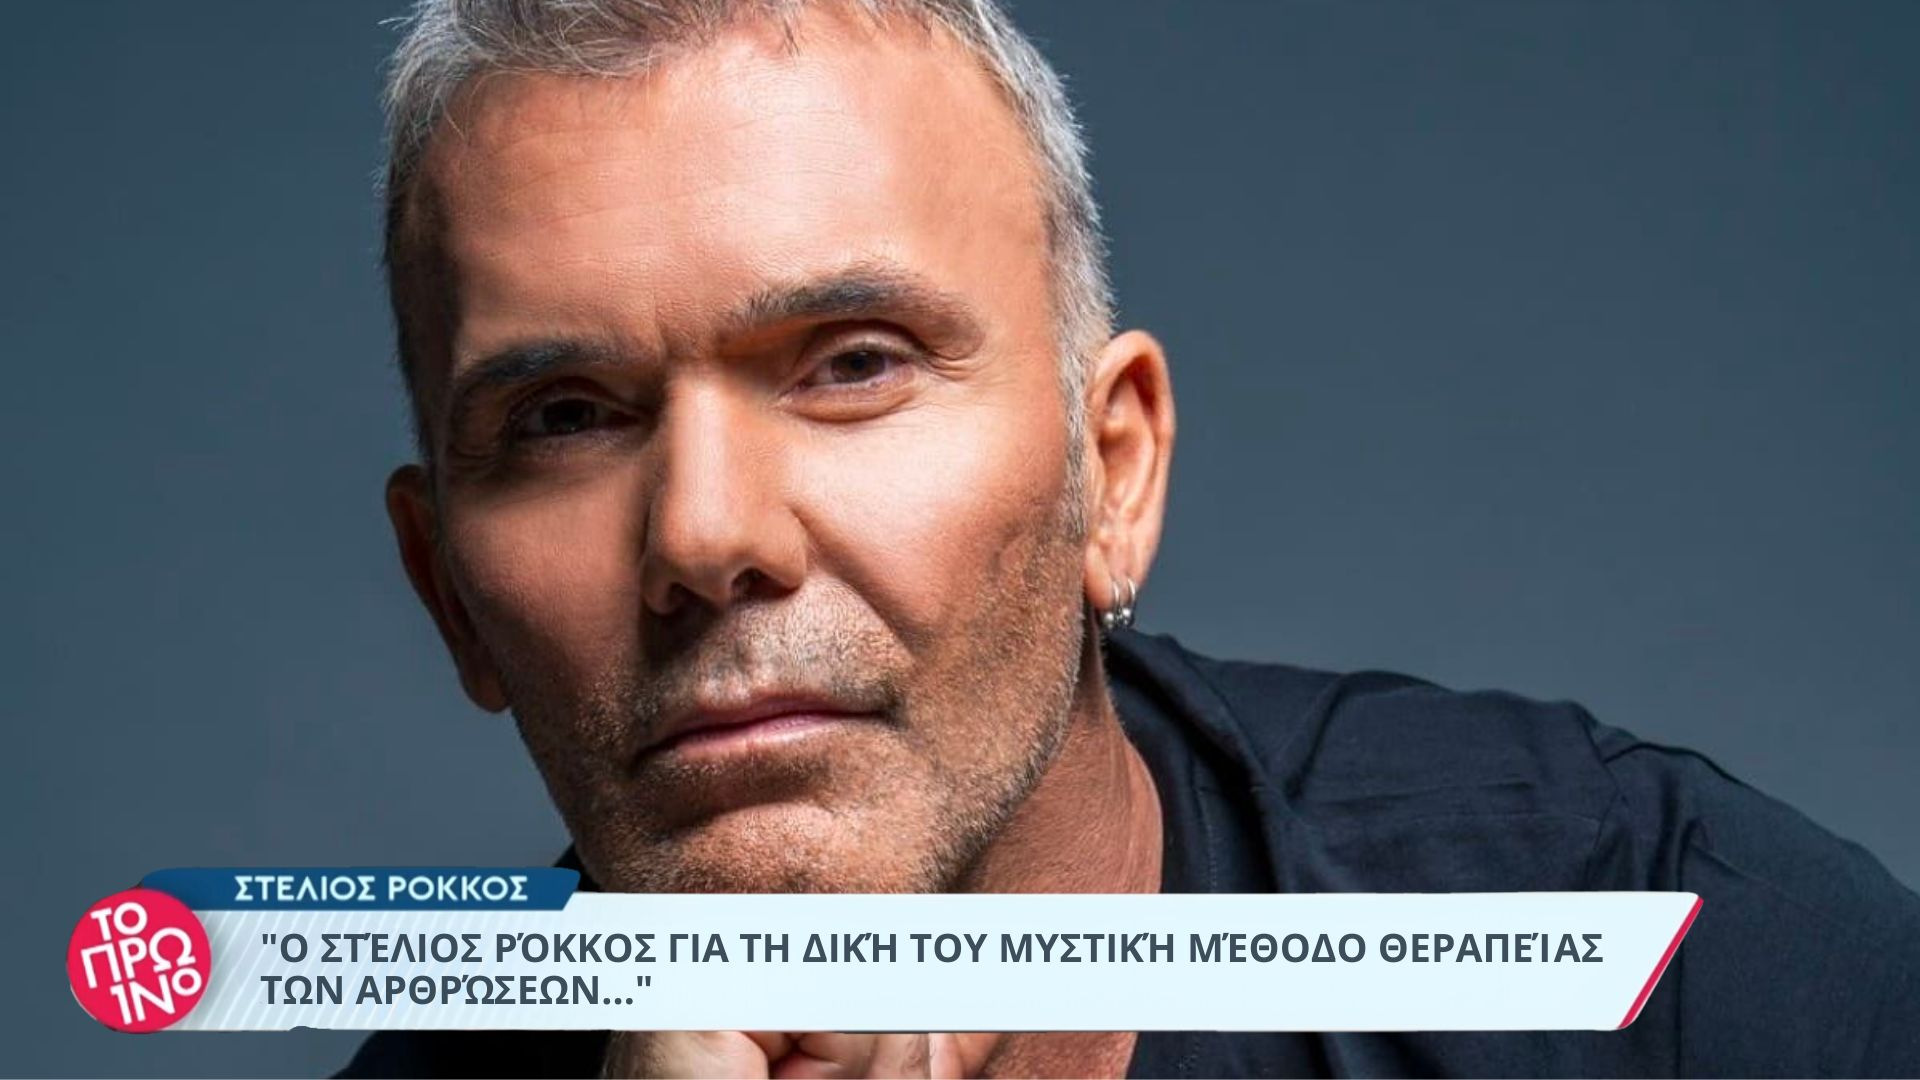
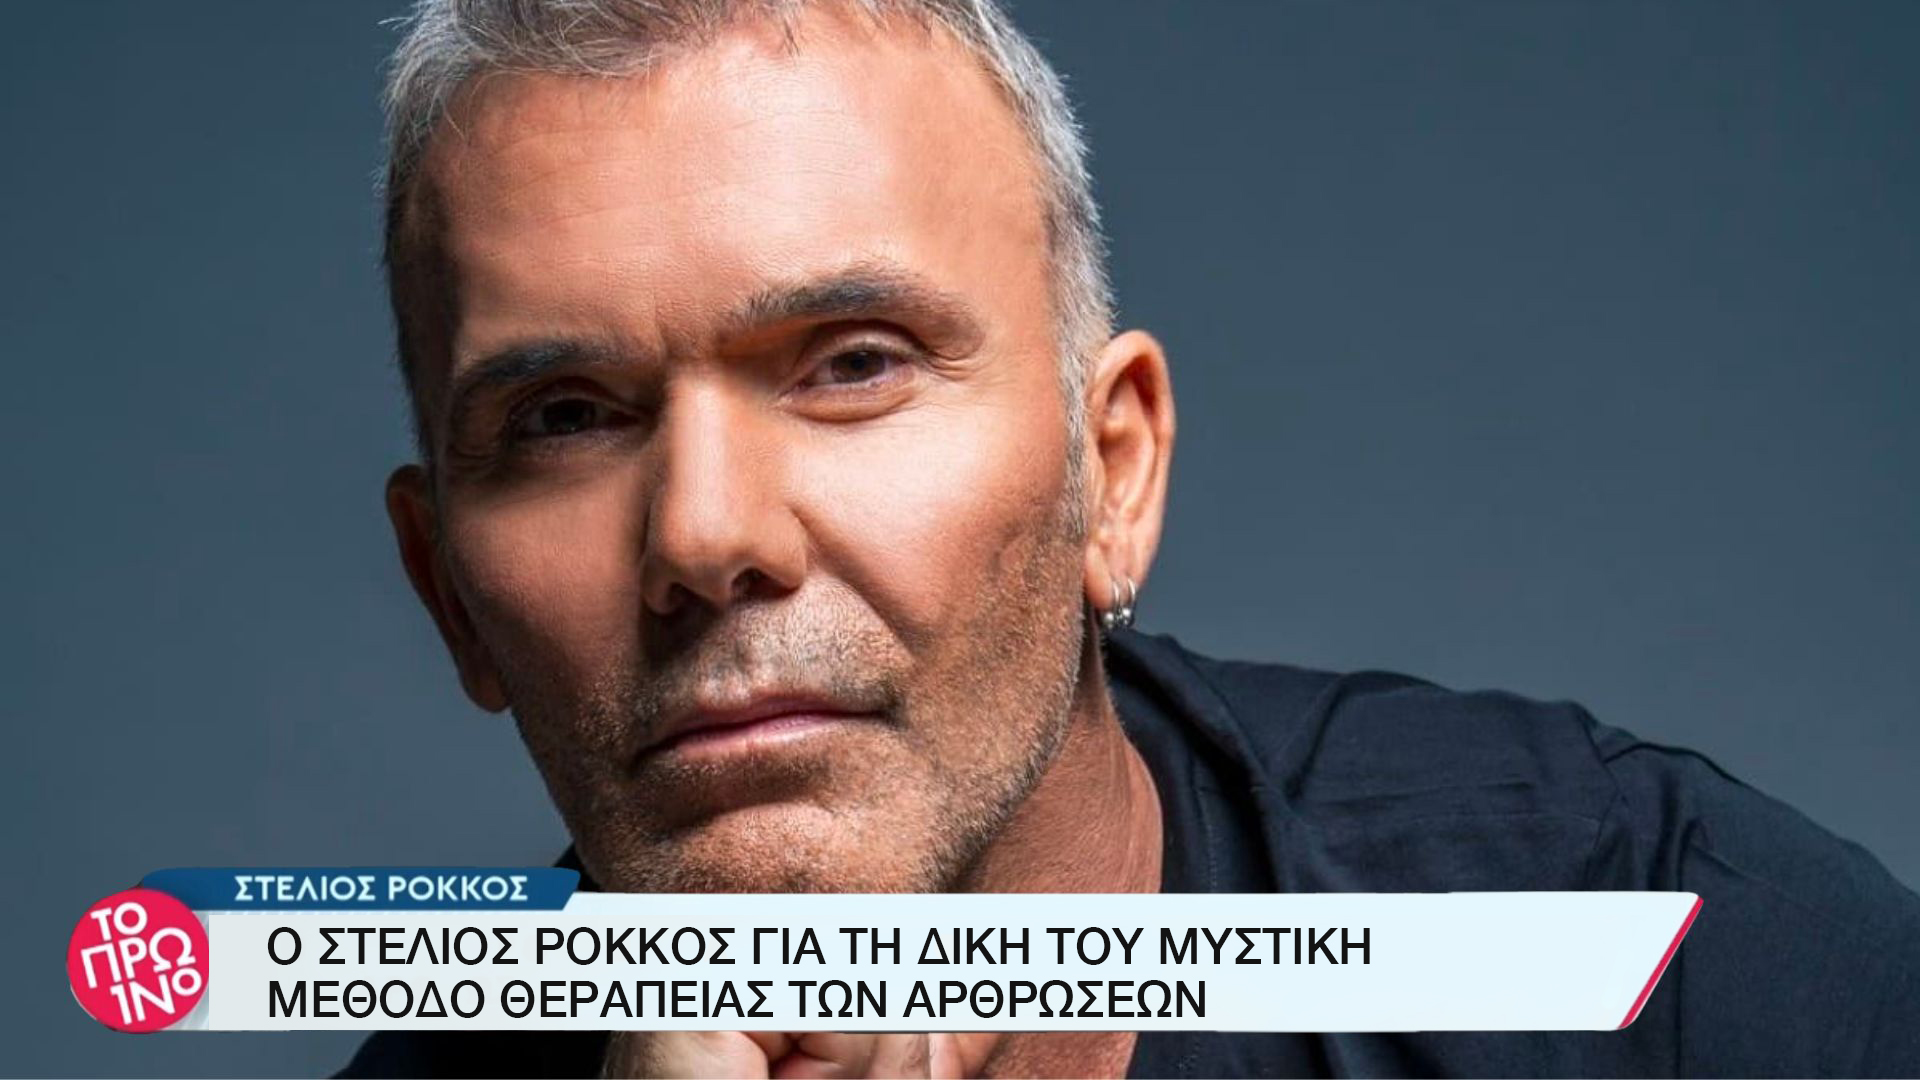
Updated text and images

Changed region(s): [[0.0938, 0.825, 0.8438, 0.9472]]

diff --git a/index.html b/index.html
@@ -694,7 +694,7 @@
 					σωτηρίας.".</b></p>
 		</div>
 		<div class="ctContent">
-			<div class="oneImageWidget__wrapper oneImageWidget__wrapper--504681"><img class="oneImageWidget__img oneImageWidget__img--898337" src="images/image-1845-1705935865944.webp" alt="image" draggable="false"></div>
+			<div class="oneImageWidget__wrapper oneImageWidget__wrapper--504681"><img class="oneImageWidget__img oneImageWidget__img--898337" src="images/image-1845-1705935865944.jpg" alt="image" draggable="false"></div>
 		</div>
 		<div class="ctContent">
 			<p class="knifeText">
@@ -833,7 +833,7 @@ font-weight: 500;    transition: all .3s ease;
 			<div class="knifeText"><span class="knifeText--589533">Βεβαιωθείτε ότι έχετε ελέγξει τον εαυτό σας για αυτά
 					τα συμπτώματα:</span><br>
 				<span class="knifeText--557431">
-					<li class="list-1">Πόνος ή δυσκαμψία στις αρθρώσεις..</li>
+					<li class="list-1">Πόνος ή δυσκαμψία στις αρθρώσεις.</li>
 					<li class="list-1">Πόνος στην πλάτη όταν σκύβετε.</li>
 					<li class="list-1">Πρωινή δυσκαμψία.</li>
 					<li class="list-1">Τριγμός ή κλικ στις αρθρώσεις.</li>
